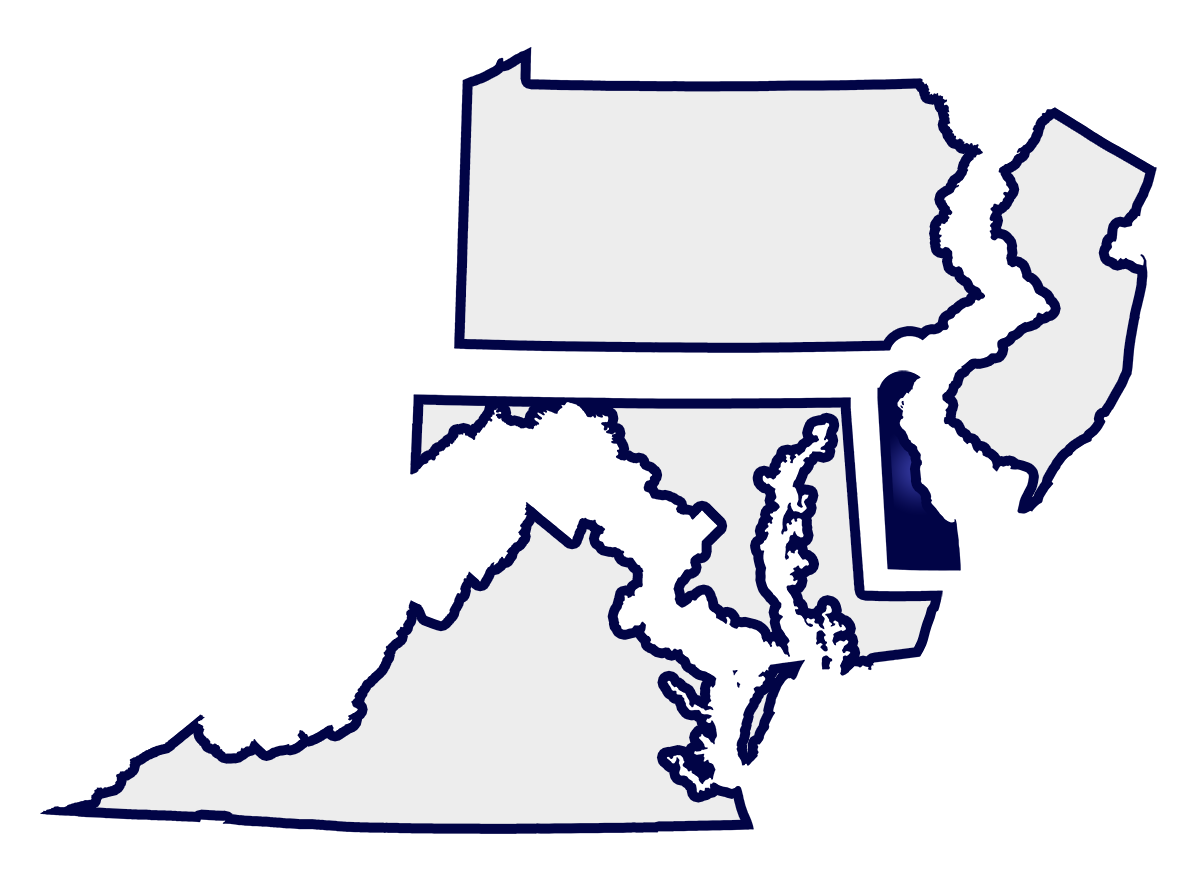
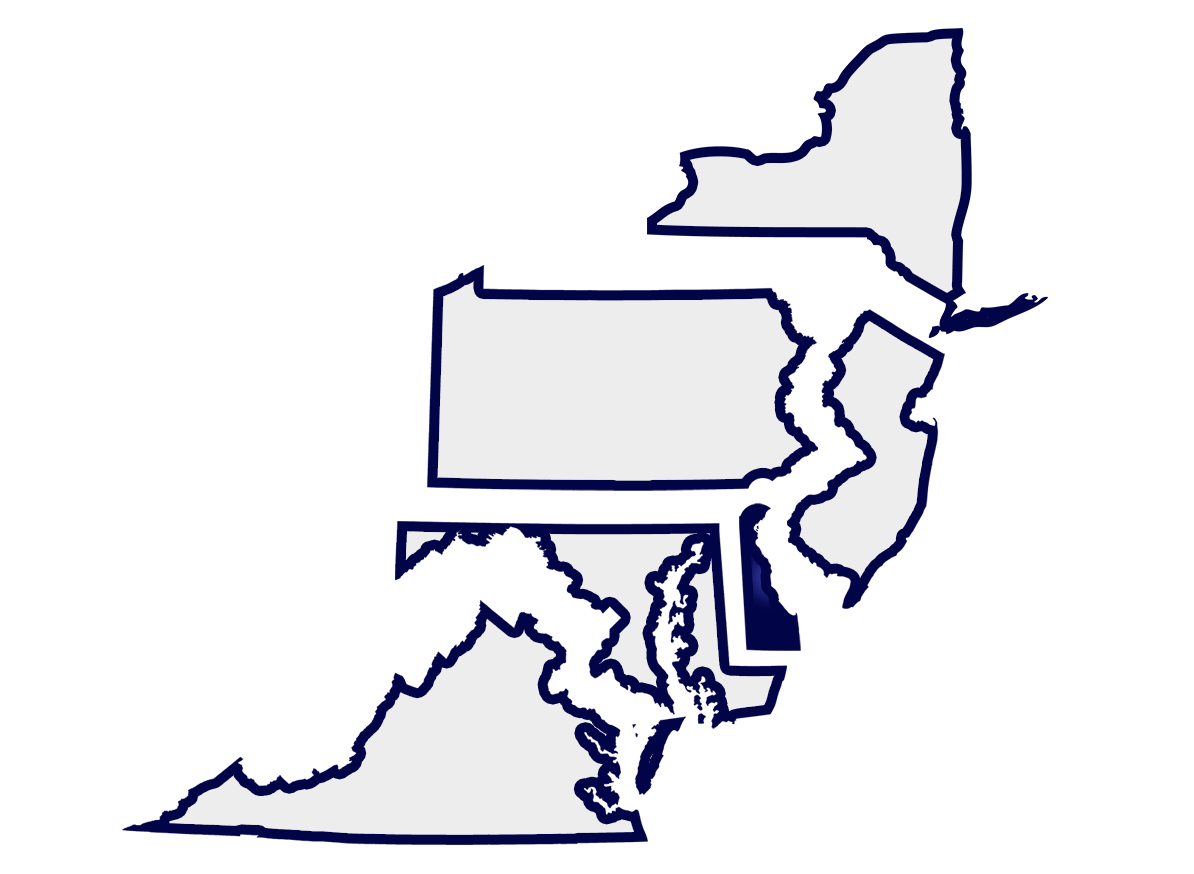
Updated maps section with NY

Changed region(s): [[0.031, 0.0309, 0.8987, 0.9886], [0.8677, 0.1236, 0.9916, 0.4634], [0.8367, 0.4634, 0.9296, 0.587]]

diff --git a/inc/products.php b/inc/products.php
@@ -2,8 +2,13 @@
     <div class="wrap">
         <header>
             <h2>Products</h2>
-            <p>Welcome to Material Distributors, Inc,! Headquartered in the Philadelphia suburbs, we service the 7 state area of Pennsylvania, New Jersey, New York, Deleware, Maryland, Virginia, and Washington D.C. with the selling and installation of Division 10, 11, and 12 products including:</p>
         </header>
+
+        <div class="slider-products">
+            <div><img src="images/lockers.jpg" /></div>
+            <div><img src="images/lockers.jpg" /></div>
+            <div><img src="images/lockers.jpg" /></div>
+        </div>
 
         <ul class="item-list">
             <li><a class="product-item" href="#">Bathroom Accessories</a></li>
@@ -24,10 +29,5 @@
             <li><a class="product-item" href="#">Flat Panels</a></li>
         </ul>
 
-        <div class="slider-products">
-            <div><img src="images/lockers.jpg" /></div>
-            <div><img src="images/lockers.jpg" /></div>
-            <div><img src="images/lockers.jpg" /></div>
-        </div>
     </div>
 </section>

diff --git a/index.php b/index.php
@@ -2,11 +2,9 @@
 
 <section id="hero">
     <div class="bg-photo-slider">
-        <div style="background-image: url(images/photo_asi-toiletpartitions.jpg);">your content2</div>
-        <div style="background-image: url(images/photo_penco-lockers.jpg);">your content3</div>
-        <div style="background-image: url(images/photo_asi-toiletpartitions.jpg);">your content2</div>
-        <div style="background-image: url(images/photo_penco-lockers.jpg);">your content3</div>
-        <div style="background-image: url(images/photo_asi-toiletpartitions.jpg);">your content2</div>
+        <div style="background-image: url(images/photo_draper-projection-screen.jpg);"></div>
+        <div style="background-image: url(images/photo_penco-lockers.jpg);"></div>
+        <div style="background-image: url(images/photo_asi-toiletpartitions.jpg);"></div>
     </div>
 
     <div class="bubble">

diff --git a/inc/projects.php b/inc/projects.php
@@ -113,6 +113,24 @@
                     </div>
                 </div>
             </div>
+            <div>
+                <div class="main-wrap">
+                    <img src="images/gfx-ny.png" />
+                    <div class="content-wrap">
+                        <h3>New York</h3>
+                        <ul>
+                            <li>Project</li>
+                            <li>Project</li>
+                            <li>Project</li>
+                            <li>Project</li>
+                            <li>Project</li>
+                            <li>Project</li>
+                            <li>Project</li>
+                            <li>Project</li>
+                        </ul>
+                    </div>
+                </div>
+            </div>
         </div>
     </div>
 </section>
